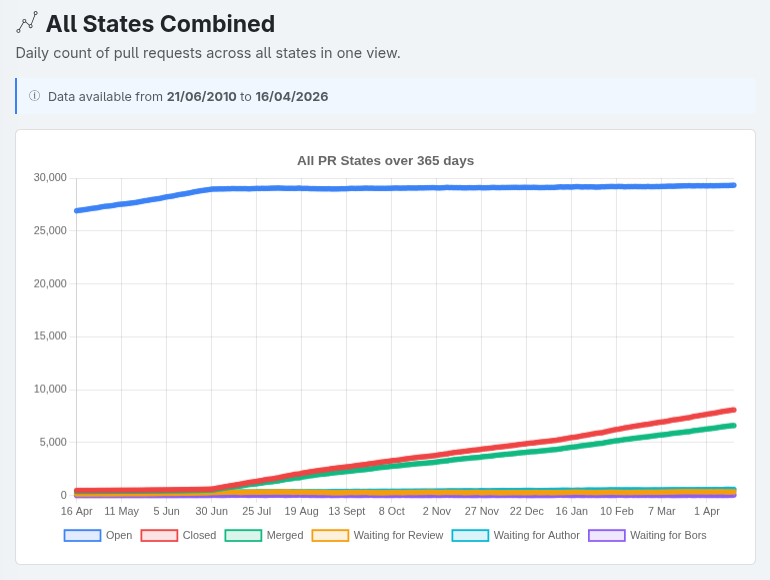
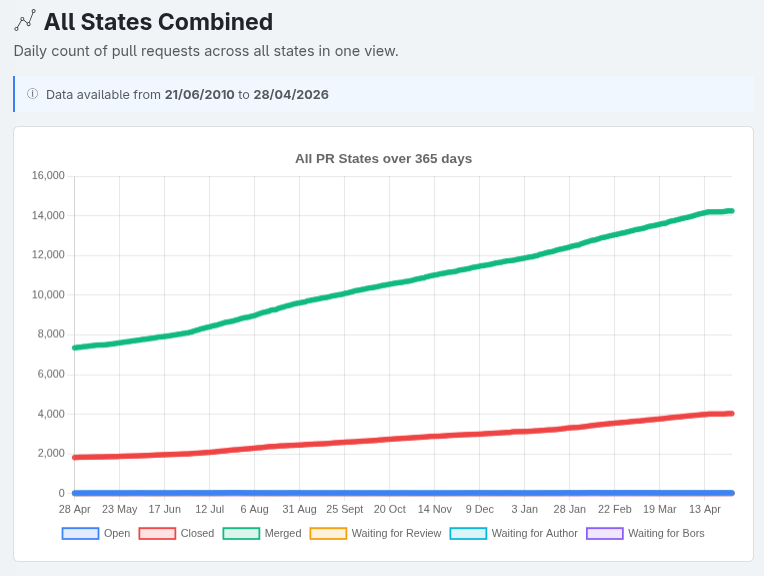
more bigger ganges

diff --git a/src/chapters/practice/design/database.tex b/src/chapters/practice/design/database.tex
@@ -1,16 +1,63 @@
+\section{Volba databázového systému}
+\label{sec:implementation:db_choice}
+
+Při návrhu bylo nutné zvolit konkrétní systém pro správu databáze. Nejprve bylo rozhodnuto o~typu databáze, a~poté byl vybrán konkrétní systém.
+
+\subsection{Relační vs.\ dokumentová databáze}
+\label{subsec:database:relational_vs_document}
+
+Prvním rozhodnutím byl výběr mezi dokumentovou a~relační databází. Dokumentová databáze nabízí větší flexibilitu a~umožňuje ukládat celé \JSON odpovědi bez striktní struktury, avšak pro účely tohoto systému byla zvolena relační databáze.
+
+Důvodem je analytická povaha dotazů a~potřeba agregovat data přes více entit. Relační databáze umožňuje efektivní spojování tabulek a~skupinové operace, které jsou v~nich dobře optimalizovány. Díky primárním a~cizím klíčům navíc zajišťuje integritu dat a~předem definovaná struktura zjednodušuje validaci a~konzistenci na straně aplikace.
+
+\subsection{SQLite}
+\label{subsec:implementation:db_choice:sqlite}
+
+SQLite je odlehčený souborový databázový systém bez samostatného serverového procesu~\cite{sqlite_about}. Celá databáze je uložena v~jediném souboru a~databázový stroj je vložen přímo do aplikace jako knihovna. Tím odpadá nutnost instalace serveru, čímž se výrazně zjednodušuje lokální vývoj a~nasazení. SQLite je proto vhodné zejména pro prototypování, nízkou souběžnost nebo jako vestavěná databáze mobilních a~desktopových aplikací~\cite{sqlite_when_to_use}.
+
+Nevýhodou je omezená podpora souběžných zápisů. Ve výchozím režimu (Rollback Journal) dochází při zápisu k~uzamčení celého souboru. Tento problém částečně řeší \WAL režim (\code{PRAGMA journal\_mode=WAL;})~\cite{sqlite_wal}, který umožňuje souběžné čtení za probíhajícího zápisu, avšak souběžné zápisy jsou stále serializovány. Nasazení ve vícekontejnerovém prostředí je kvůli sdílenému souboru problematické. Moderní cloudové platformy jako \devTool{Cloudflare D1}{https://developers.cloudflare.com/d1/} nebo \devTool{Turso}{https://turso.tech} tato omezení řeší, avšak SQLite má stále omezenější sadu analytických \SQL funkcí.
+
+\subsection{PostgreSQL}
+\label{subsec:implementation:db_choice:postgresql}
+
+PostgreSQL je plnohodnotný serverový relační databázový systém~\cite{postgresql_about} fungující na architektuře klient-server. Umožňuje souběžný přístup více klientů, pokročilou správu transakcí a~efektivní využití systémových prostředků. Lokální nastavení vyžaduje spuštění serveru, které lze zjednodušit kontejnerizací. V~cloudu je PostgreSQL dostupný jako spravovaná služba u~všech hlavních poskytovatelů (Amazon RDS, Google Cloud SQL, Azure). Oproti vestavěným databázím zavádí architektura klient-server přídavnou síťovou latenci (\TCPIP), která je však při dávkovém zápisu zanedbatelná.
+
+\subsection{Výsledné rozhodnutí}
+\label{subsec:implementation:db_choice:decision}
+
+Pro implementaci byl zvolen PostgreSQL. Rozhodujícím argumentem byla podpora analytického \SQL, zejména klauzule \code{DISTINCT ON}~\cite{postgresql_distinct_on}, kterou SQLite nenabízí a~která zjednodušuje dotazy typu point-in-time pro zjištění stavu každého \PR v~daném okamžiku. PostgreSQL dále poskytuje pokročilejší okenní funkce~\cite{postgresql_window_functions} pro výpočty nad časovými řadami a~propracovaný plánovač dotazů s~podporou různých typů indexů. Cloudové platformy moderního ekosystému SQLite tyto analytické konstrukty nativně nepodporují. Zatímco SQLite serializuje souběžné zápisy i~v~\WAL módu, PostgreSQL díky MVCC (multiversion concurrency control) a~zamykání na úrovni řádků zvládá zápisy lépe.
+
+Pro lokální vývoj je server spouštěn přes kontejnerizaci, takže vývojář nemusí instalovat PostgreSQL přímo do systému a~vývojové prostředí zůstává shodné s~produkčním nasazením.
+
+Srovnání obou systémů shrnuje \customref{Tabulka}{tab:implementation:db_choice:comparison}.
+
+\begin{table}[htbp]
+  \centering
+  \caption{Srovnání vlastností SQLite a~PostgreSQL pro účely analytického nástroje}
+  \label{tab:implementation:db_choice:comparison}
+  \begin{tabularx}{\textwidth}{@{} l >{\raggedright\arraybackslash}X >{\raggedright\arraybackslash}X @{}}
+    \toprule
+    & \multicolumn{2}{c}{\textbf{Databázový systém}} \\
+    \cmidrule(lr){2-3}
+    \textbf{Kritérium} & \textbf{SQLite} & \textbf{PostgreSQL} \\
+    \midrule
+    Architektura & Vestavěná knihovna. & Klient-server architektura. \\
+    \addlinespace
+    Lokální nasazení & Zcela bezúdržbové, stačí jeden soubor. & Vyžaduje instalaci serveru nebo spuštění přes kontejnerizaci. \\
+    \addlinespace
+    Cloudové nasazení & Tradiční kontejnerové nasazení problematické; moderní platformy (D1, Turso) řeší omezení, avšak s~omezenější sadou analytických \SQL funkcí. & Nativní podpora, dostupné jako spravovaná služba. \\
+    \addlinespace
+    Souběžné zápisy & Ve výchozím režimu zamyká celý soubor; \WAL mód serializuje souběžné zápisy. & Plná podpora souběžnosti a~nezávislých transakcí. \\
+    \addlinespace
+    Analytické dotazy & Chybí \code{DISTINCT ON} a~pokročilé okenní funkce. Vhodné pro jednodušší dotazy. & Pokročilý optimalizátor, \code{DISTINCT ON}, okenní funkce a~bohatá podpora datových typů. \\
+    \bottomrule
+  \end{tabularx}
+\end{table}
+
 \section{Struktura databáze}
 \label{sec:database}
 
-Při návrhu databáze bylo klíčové rozhodnout, jak bude databáze navržena tak, aby efektivně pojmula velké množství dat a~zároveň umožňovala rychlé provádění analytických dotazů.
-
-\subsection{Relační vs.\ dokumentová}
-\label{subsec:database:relational_vs_document}
-
-První věcí, o~které muselo být rozhodnuto, je výběr mezi dokumentovou a~relační databází. I~když dokumentová databáze nabízí větší flexibilitu dat a~umožňuje ukládat celé \JSON odpovědi bez striktní struktury, bylo rozhodnuto pro relační databázi.
-
-Důvodem je analytická povaha dotazů a~potřeba agregovat data přes více entit. Relační databáze umožňuje efektivní spojování tabulek, seskupování a~další analytické operace, které jsou v~relačních databázích dobře optimalizovány.
-
-Relační databáze navíc díky primárním a~cizím klíčům zajišťuje integritu dat. Předem definovaná struktura umožňuje validaci a~konzistenci dat, což zjednodušuje logiku na straně aplikace.
+Při návrhu struktury databáze bylo klíčové zajistit, aby schéma efektivně pojmulo velké množství dat a~zároveň umožňovalo rychlé provádění analytických dotazů.
 
 \subsection{Rozdělení štítků a~událostí}
 \label{subsec:database:labels_and_events}

diff --git a/src/chapters/practice/design/queries.tex b/src/chapters/practice/design/queries.tex
@@ -6,7 +6,11 @@
 Systém zpřístupňuje nasbíraná data z~mnoha zdrojů prostřednictvím \REST \API. \API tohoto systému zpřístupňuje endpointy, které odpovídají na dotazy, jež si uživatelé mohou klást při sledování velkého repozitáře. Rozsah pokrytých dotazů sahá od stavu konkrétního~\PR po přehled souborů upravovaných konkrétním týmem.
 
 \section{Přehled implementovaných dotazů}
-Následující část detailně specifikuje kompletní sadu analytických pohledů, které byly v rámci návrhu definovány a následně implementovány. Pro každý dotaz je níže popsán jeho hlavní účel, potřebné vstupy a způsob agregace dat ze zdrojových dat.
+Následující část detailně specifikuje kompletní sadu analytických pohledů, které byly v rámci návrhu definovány a následně implementovány.
+
+Všechny dotazy sdílí jednotný přístup: jsou striktně čtecí (neprovádějí žádné modifikace dat), jsou parametrizovány identifikátorem repozitáře a~pracují s~daty uloženými při sběru v~databázi \sectionref{sec:database}, nikoli přímo s~externími \API v~době požadavku. Tím je zaručena nízká latence odpovědí i~při analytických dotazech nad velkým množstvím historických záznamů. Každý endpoint deklaruje možné \HTTP stavové kódy včetně 404 (nenalezeno) a~500 (vnitřní chyba), což usnadňuje integraci s~libovolnou prezentační vrstvou nebo dalším nástrojem pro vizualizaci dat.
+
+Pro každý dotaz je níže popsán jeho hlavní účel, potřebné vstupy a způsob agregace dat ze zdrojových dat.
 
 \begin{description}
   \item[Historický stav \PR k~danému datu:] Prvním z~dotazů je rekonstrukce stavu~\PR v~časovém období. Dotaz přijímá identifikátor~\PR, datum, od nějž se mají záznamy hledat, a~počet dní do historie od tohoto data, a~vrací seznam stavů~\PR v~tomto časovém rozmezí. U~každého záznamu je přiloženo časové razítko. Tato data jsou čerpána z~\API GitHubu \subsectionref{subsec:github_api_rest}, konkrétně z~endpointů pro~\PR a~Timeline \API, kde jsou zaznamenávány stavové štítky začínající prefixem \code{S-*} \sectionref{sec:rust_labels} a~události. Výsledek tak umožňuje přesně určit, v~jakém stavu se daný~\PR nacházel v~libovolném časovém okamžiku.
@@ -24,7 +28,3 @@ Následující část detailně specifikuje kompletní sadu analytických pohled
   \item[Soubory upravené členy daného týmu:] Posledním z~implementovaných dotazů je přehled souborů, které v~zadaném časovém okně upravili členové konkrétního týmu. Na vstupu je název týmu \sectionref{sec:rust_team_api}, časové okno a~počet úrovní adresářové hierarchie pro seskupení výsledku. Data jsou čerpána ze všech tří hlavních zdrojů a~výsledek lze získat třemi způsoby: buď jako plochý seznam souborů seřazených sestupně podle počtu úprav, jako stromovou strukturu seskupenou do zvoleného počtu úrovní adresářové hierarchie, nebo jako úplný adresářový strom. Tato flexibilita umožňuje prezentační vrstvě \subsectionref{subsec:architecture:presentation_layer} přizpůsobit vizualizaci jak detailním grafům na úrovni jednotlivých souborů, tak přehledovým heatmapám celých modulů.
 
 \end{description}
-
-\section{Souhrn}
-\label{sec:queries:souhrn}
-Všechny dotazy sdílí jednotný přístup: jsou striktně čtecí (neprovádějí žádné modifikace dat), jsou parametrizovány identifikátorem repozitáře a~pracují s~daty uloženými při sběru v~databázi \sectionref{sec:database}, nikoli přímo s~externími \API v~době požadavku. Tím je zaručena nízká latence odpovědí i~při analytických dotazech nad velkým množstvím historických záznamů. Každý endpoint deklaruje možné \HTTP stavové kódy včetně 404 (nenalezeno) a~500 (vnitřní chyba), což usnadňuje integraci s~libovolnou prezentační vrstvou nebo dalším nástrojem pro vizualizaci dat.

diff --git a/src/chapters/practice/design/architecture.tex b/src/chapters/practice/design/architecture.tex
@@ -26,6 +26,8 @@ Vstupní vrstva zajišťuje komunikaci s~externími zdroji dat. Obsahuje moduly 
 
 Vrstva se stará o~načítání issues a~\PR z~\API GitHubu a~taktéž o~mapování změněných souborů k~\PR z~git repozitáře, pokud je daný \PR sloučen.
 
+Informace o~souborech změněných v~rámci \PR jsou sice dostupné přes \API GitHubu prostřednictvím endpointu pro výpis souborů daného \PR~\cite{github_rest_api}, avšak jeho použití by při zpracování tisíců \PR vedlo k~tisícům síťových požadavků a~zbytečnému zatížení \API. Tím by se celý proces synchronizace výrazně prodloužil a~přiblížil limitům počtu požadavků \sectionref{subsec:implementation:gotchas:rate_limits}. Z~tohoto důvodu jsou informace o~změněných souborech načítány přímo z~lokální kopie git repozitáře, kde je každý sloučený \PR reprezentován merge commitem se svým rodičovským commitem. Tento přístup nevyžaduje žádné síťové požadavky a~je výrazně rychlejší.
+
 \subsection{Zpracování a~agregace}
 \label{subsec:architecture:processing}
 
@@ -47,9 +49,9 @@ Prezentační vrstva zajišťuje vystavení dat uživatelům. Obsahuje backendov
 
 \API je navrženo podle principů \REST a~poskytuje přímé endpointy pro frontend. Je rozděleno do modulů podle případů užití nebo typu požadovaných dat. Endpointy jsou zdokumentovány a~obsahují příklady odpovědí i~chybových stavů s~možností spustit vlastní požadavek přímo na daný endpoint. Endpointy primárně volají úložnou vrstvu pro získání dat, jedná se tedy o~tenkou vrstvu nad databází.
 
-\subsection{Průřezové vlastnosti systému}
+\subsection{Celkové vlastnosti systému}
 \label{subsec:architecture:cross_cutting}
 
-První průřezovou vlastností je pozorovatelnost a~monitorování průběžného chování systému. Systém měří dobu trvání nejdůležitějších operací, což umožňuje identifikovat výkonnostní \textit{úzká hrdla}. Dlouhotrvající procesy jsou navíc opatřeny vizualizací průběhu v~reálném čase, je-li to technicky možné. Systém také samostatně zaznamenává důležité události a~chyby pro pozdější analýzu a~ladění.
+První vlastností je pozorovatelnost a~monitorování průběžného chování systému. Systém měří dobu trvání nejdůležitějších operací, což umožňuje identifikovat výkonnostní úzká hrdla (\textit{bottlenecks}). Dlouhotrvající procesy jsou navíc opatřeny vizualizací průběhu v~reálném čase, je-li to technicky možné. Systém také samostatně zaznamenává důležité události a~chyby pro pozdější analýzu a~ladění.
 
-Druhou průřezovou vlastností je robustnost a~odolnost vůči chybám a~výpadkům. Systém je navržen tak, aby při chybě ať už z~externích \API nebo z~interní databáze, zaznamenal vzniklou chybu a~pokusil se pokračovat v~běhu. Tato vlastnost společně s~možností opětovného načtení dat po výpadku zajišťuje, že systém zůstává funkční a~poskytuje aktuální data i~při dočasných problémech s~externími zdroji nebo interních chybách.
+Druhou vlastností je robustnost a~odolnost vůči chybám a~výpadkům. Systém je navržen tak, aby při chybě ať už z~externích \API nebo z~interní databáze, zaznamenal vzniklou chybu a~pokusil se pokračovat v~běhu. Tato vlastnost společně s~možností opětovného načtení dat po výpadku zajišťuje, že systém zůstává funkční a~poskytuje aktuální data i~při dočasných problémech s~externími zdroji nebo interních chybách.

diff --git a/src/chapters/practice/evaluation/benchmarks.tex b/src/chapters/practice/evaluation/benchmarks.tex
@@ -17,7 +17,7 @@ Měření výkonu synchronizace dat pro repozitář \texttt{rust-lang/rust} prob
 
 Počáteční synchronizace slouží k prvotnímu stažení všech dat z repozitáře za zvolené časové období.
 Měření bylo provedeno pro data od 1.\,1.\,2023, tedy za přibližně 3 roky a 4,5 měsíce.
-Celková doba počáteční synchronizace činila přibližně 51 minut.
+Celková doba počáteční synchronizace činila přibližně 49 minut.
 Podrobný přehled jednotlivých fází je uveden v tabulce~\ref{tab:evaluace:benchmarks:inicializace}.
 
 \begin{table}[h]
@@ -28,16 +28,17 @@ Podrobný přehled jednotlivých fází je uveden v tabulce~\ref{tab:evaluace:be
     \toprule
     \textbf{Fáze} & \textbf{Trvání} \\
     \midrule
-    Klonování git repozitáře ($\approx$\,1,2\,GB) & $\approx$ 1--2 min \\
-    Stažení \PR z GitHub \API & 14 min 13 s \\
-    Vložení přispěvatelů z \PR do databáze & 18 s \\
-    Načtení změněných souborů z git historie a vložení záznamů do databáze & 22 min 5 s \\
-    Stažení issues z GitHub \API & 14 min 4 s \\
-    Vložení přispěvatelů z issues do databáze & 23 s \\
+    Stažení \PR z~GitHub \API & 15 min 35 s \\
+    Vložení přispěvatelů z~\PR do databáze & $<$ 1 s \\
+    Zpracování \PR a~výpočet aktivity souborů & 15 min 59 s \\
+    Hromadné vložení \PR do databáze & 2 s \\
+    Hromadné vložení aktivity souborů do databáze & 15 s \\
+    Stažení issues z~GitHub \API & 17 min 17 s \\
+    Vložení přispěvatelů z~issues do databáze & $<$ 1 s \\
     Vložení issues do databáze & 1 s \\
     Synchronizace týmů & $<$ 1 s \\
     \midrule
-    \textbf{Celkem} & $\approx$ \textbf{51 min} \\
+    \textbf{Celkem} & $\approx$ \textbf{49 min} \\
     \bottomrule
   \end{tabular}
 \end{table}
@@ -48,6 +49,8 @@ Synchronizace dat týmů vyžadovala jediný požadavek na \API rust týmu \sect
 
 % Počáteční synchronizaci je doporučeno spouštět jako samostatný proces -- nejlépe s vyhrazeným přístupovým tokenem -- a to pouze jednou při prvním nasazení.
 % Alternativně lze zvolit kratší časové okno (například posledních 30 dní) a teprve poté spustit stahování kompletní historie událostí jako oddělený proces na pozadí, čímž se výrazně zkrátí doba inicializace.
+
+Stahování \PR a~issues by bylo teoreticky možné urychlit paralelizací požadavků. Vzhledem k~limitům počtu požadavků \sectionref{subsec:implementation:gotchas:rate_limits} a~riziku dočasného zablokování přístupového tokenu bylo zvoleno sekvenční zpracování. Počáteční synchronizace se navíc v~ideálním případě provede pouze jednou při prvním nasazení, takže tato volba nemá zásadní vliv na běžný provoz systému.
 
 \subsection{Inkrementální aktualizace}
 \label{sec:evaluace:benchmarks:inkrementalni}

diff --git a/src/chapters/practice/implementation.tex b/src/chapters/practice/implementation.tex
@@ -10,9 +10,9 @@
 \chapter{Implementace}
 \label{chap:implementation}
 
-Tato kapitola popisuje aspekty implementace nástroje. Nejprve je odůvodněna volba databázového systému, následně je popsáno schéma databáze. Dále jsou vysvětleny přístupy k~efektivnímu načítání dat z~GitHub \API a~lokálního Git repozitáře. Závěr kapitoly se věnuje vizualizaci dat prostřednictvím vlastního webového rozhraní.
+Tato kapitola popisuje aspekty implementace nástroje. Nejprve je popsáno schéma databáze, dále jsou vysvětleny přístupy k~efektivnímu načítání dat z~GitHub \API a~lokálního git repozitáře. Závěr kapitoly se věnuje vizualizaci dat prostřednictvím vlastního webového rozhraní.
 
-\input{chapters/practice/implementation/postgres_vs_sqlite.tex}
+\input{chapters/practice/implementation/crabeye.tex}
 \input{chapters/practice/implementation/db_scheme_detailed.tex}
 %\input{chapters/practice/implementation/sql_queries.tex}
 \input{chapters/practice/implementation/gotchas.tex}

diff --git a/src/main.tex b/src/main.tex
@@ -20,6 +20,7 @@
 \usepackage{pdflscape} % pro sazbu na šířku
 \usepackage{graphicx} % pro vkládání obrázků
 \usepackage{tabularx} % pro tabulky s automatickou šířkou sloupců
+\usepackage{multirow}
 \usepackage{booktabs} % pro lepší tabulky
 \usepackage{siunitx} % pro lepší tabulky s číselnými hodnotami
 \usepackage{amsmath}         % Nutné pro příkaz \text{...}

diff --git a/src/chapters/practice/design/postgres_vs_sqlite.tex b/src/chapters/practice/design/postgres_vs_sqlite.tex
@@ -1,0 +1,1 @@
+% Obsah přesunut do design/database.tex

diff --git a/readme.md b/readme.md
@@ -16,5 +16,6 @@ Code is available at [https://github.com/rcmarty/crabeye](https://github.com/rcm
 - texlive-algorithm2e
 - texlive-collection-latexextra
 - texlive-siunitx
+- texlive-multirow
 
 *Hope thats all packages and i didn't miss any*
